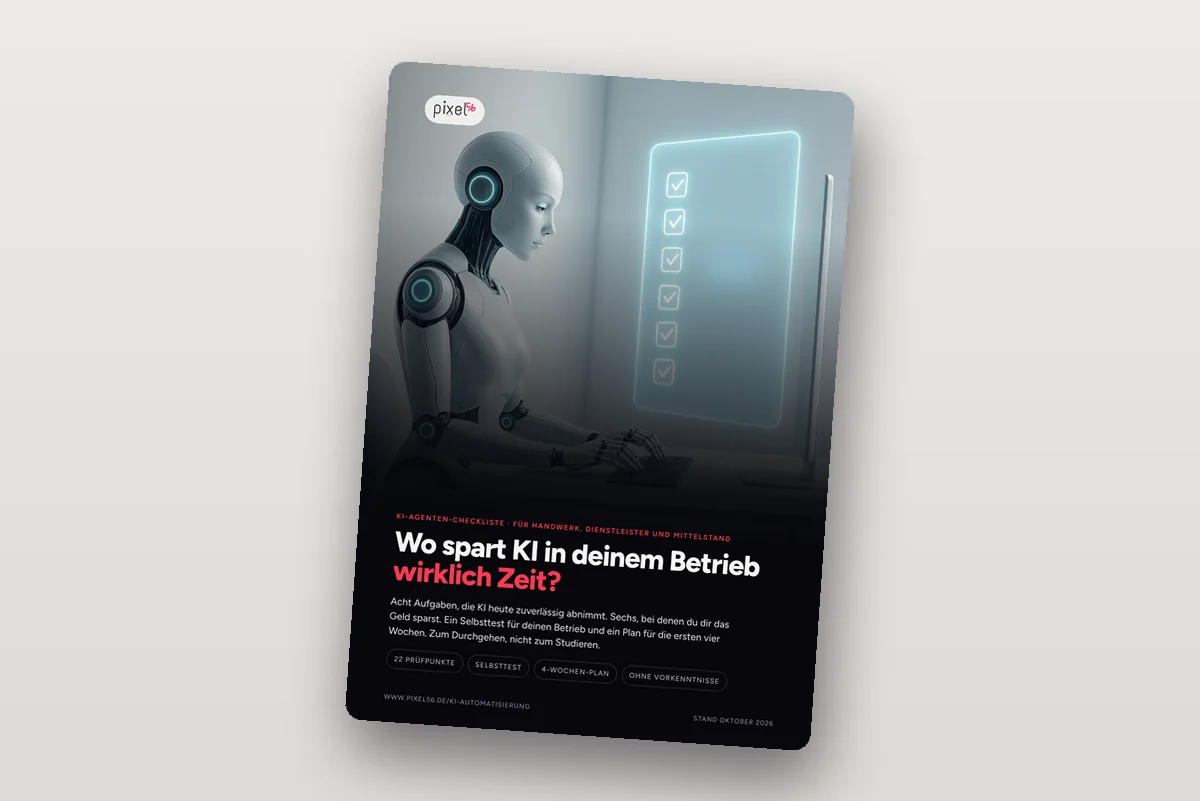
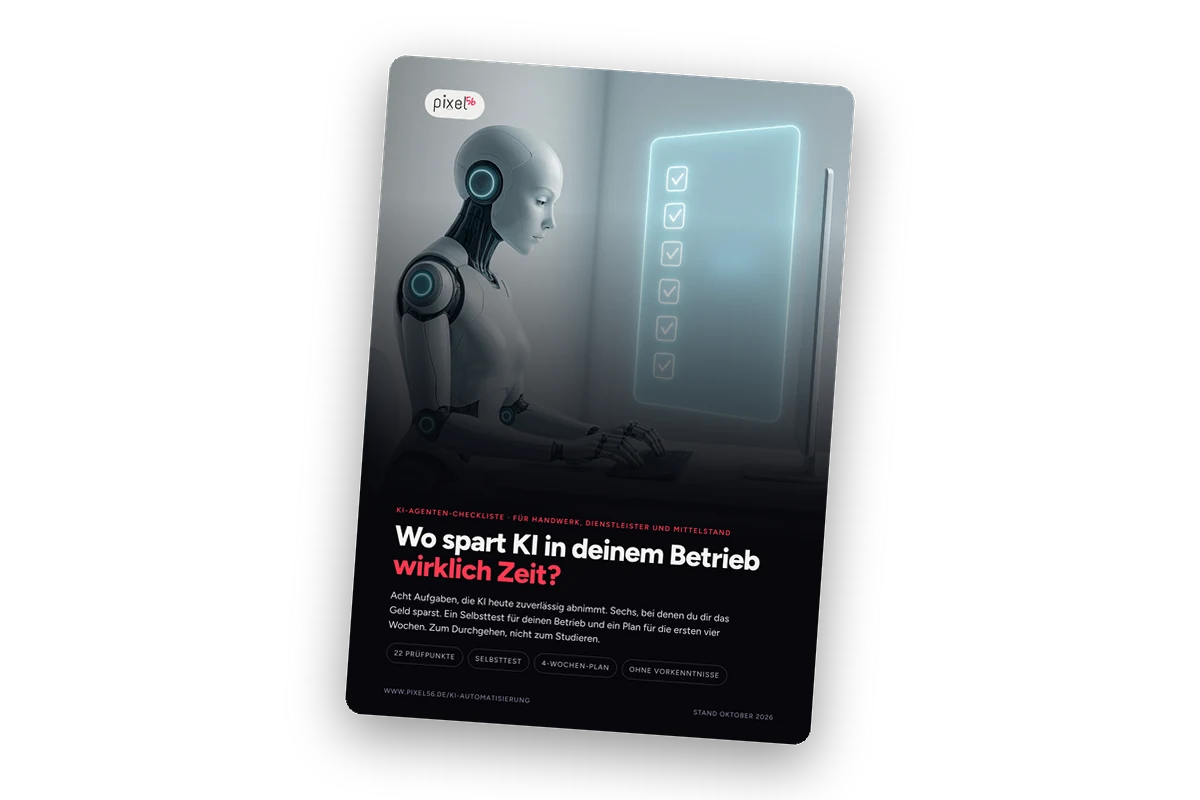
Vorschaubilder der KI-Freebies freigestellt wie die SEO-Vorschau
Claude-Session: https://claude.ai/code/session_0113S7McJJiqw7FD5TxABsQ9

diff --git a/web/docs/STATUS.md b/web/docs/STATUS.md
@@ -1264,6 +1264,25 @@ woff2-Anfrage mehr, Überschrift mit und ohne gedrosselter Schrift gleich
 hoch, Build 748 Seiten, Hintergrund dunkel ab dem ersten Frame.
 Nicht gepusht, wartet auf „push“ des Inhabers.
 
+## 3.11.2026 (lokal): Vorschaubilder der KI-Freebies freigestellt
+
+Die Vorschauen der KI-Agenten-Checkliste und des Leitfadens KI-Suche hatten
+einen grauen Kasten hinter dem Mockup, die SEO-Vorschau war transparent.
+Beide neu aus `freebies/<name>-titel.png` erzeugt, gleicher Stil wie SEO.
+Inhaber hatte „Ok“ auf das Angebot gesagt. Rezept (PIL), damit es beim
+nächsten Freebie nicht wieder ad hoc entsteht:
+
+```python
+cover = Image.open(titel_png).convert("RGBA")            # auf 660 px Höhe skalieren
+mask: rounded_rectangle(16)  -> cover.putalpha(mask)       # Ecken
+Schatten: rounded_rectangle 18 px tiefer, alpha 110, GaussianBlur(26)
+Karte rotate(-4, expand=True), zentriert in 1200×800 transparent
+save WEBP quality 88
+```
+
+Dateien: `public/bilder/freebie-ki-ebook.webp`, `freebie-ki-suche.webp`
+(jetzt 1200×800 RGBA statt 1200×801 RGB). Vergleichsbild geprüft.
+
 ## 2.11.2026 (lokal): E-Book KI-Suche überall verlinkt
 
 Frage des Inhabers: Steht die Freebie-Seite auch im Fuß? Befund: Die Seite

diff --git a/web/docs/KURZBRIEFING.md b/web/docs/KURZBRIEFING.md
@@ -247,6 +247,9 @@ Website („Leitfaden KI-Suche“ unter Ressourcen, `lib/site.ts`), Übersicht
 neben der SEO-Checkliste auf `/suchmaschinenoptimierung`. Build 751
 Seiten, Screenshots geprüft. Inhaber hatte gefragt, ob die Seite im Fuß
 steht: vorher nein, jetzt ja.
+Vorschaubilder `freebie-ki-ebook.webp` und `freebie-ki-suche.webp` am 3.11.
+wie die SEO-Vorschau freigestellt (1200×800 transparent, 660 px hoch, Ecken
+16 px, -4°, Schatten); Rezept jetzt als Code in STATUS 3.11.
 Hinweis: Die Live-Seite ist aus dieser Sandbox erreichbar (curl auf
 www.pixel56.de geht), Live-Tests sind also möglich. „[skip netlify]“ im
 Commit hat den Build offenbar nicht verhindert.
